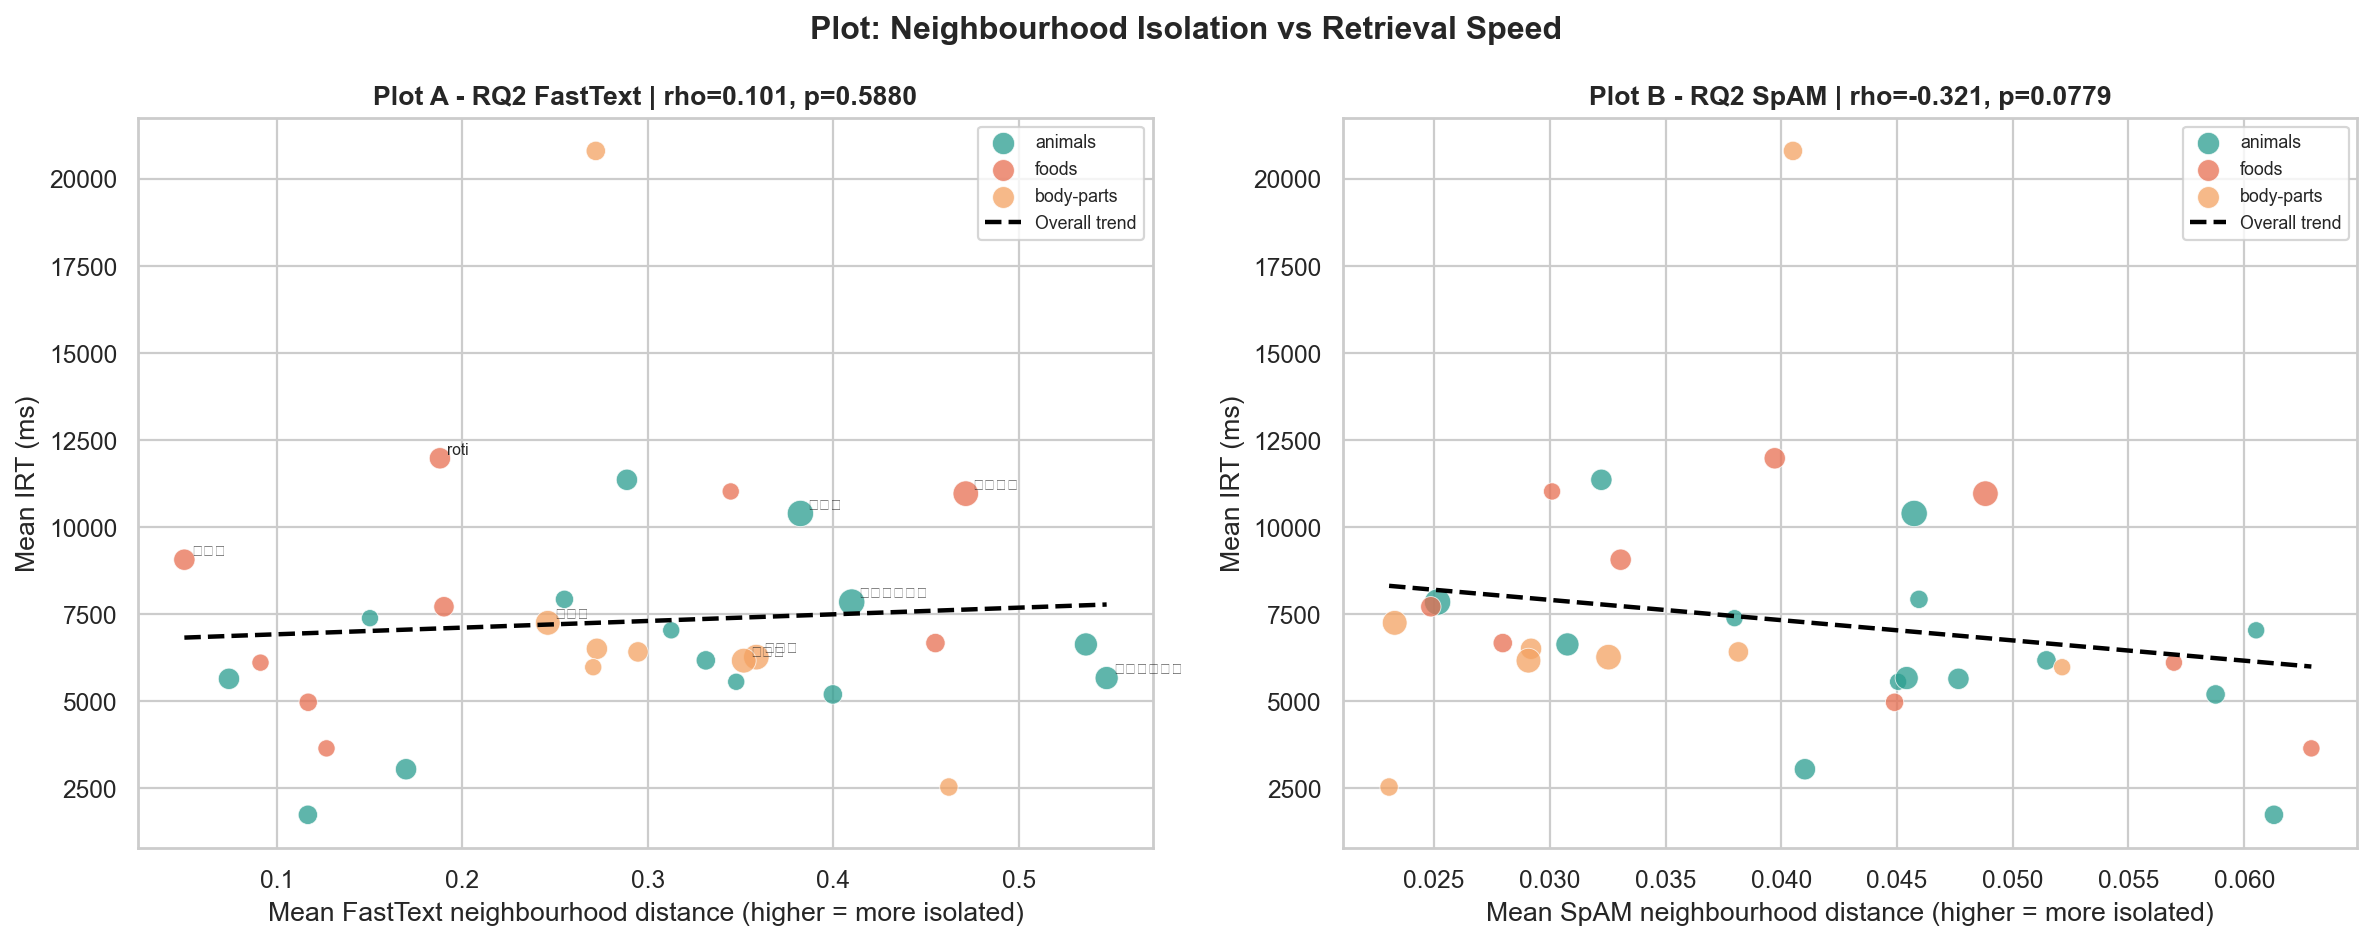
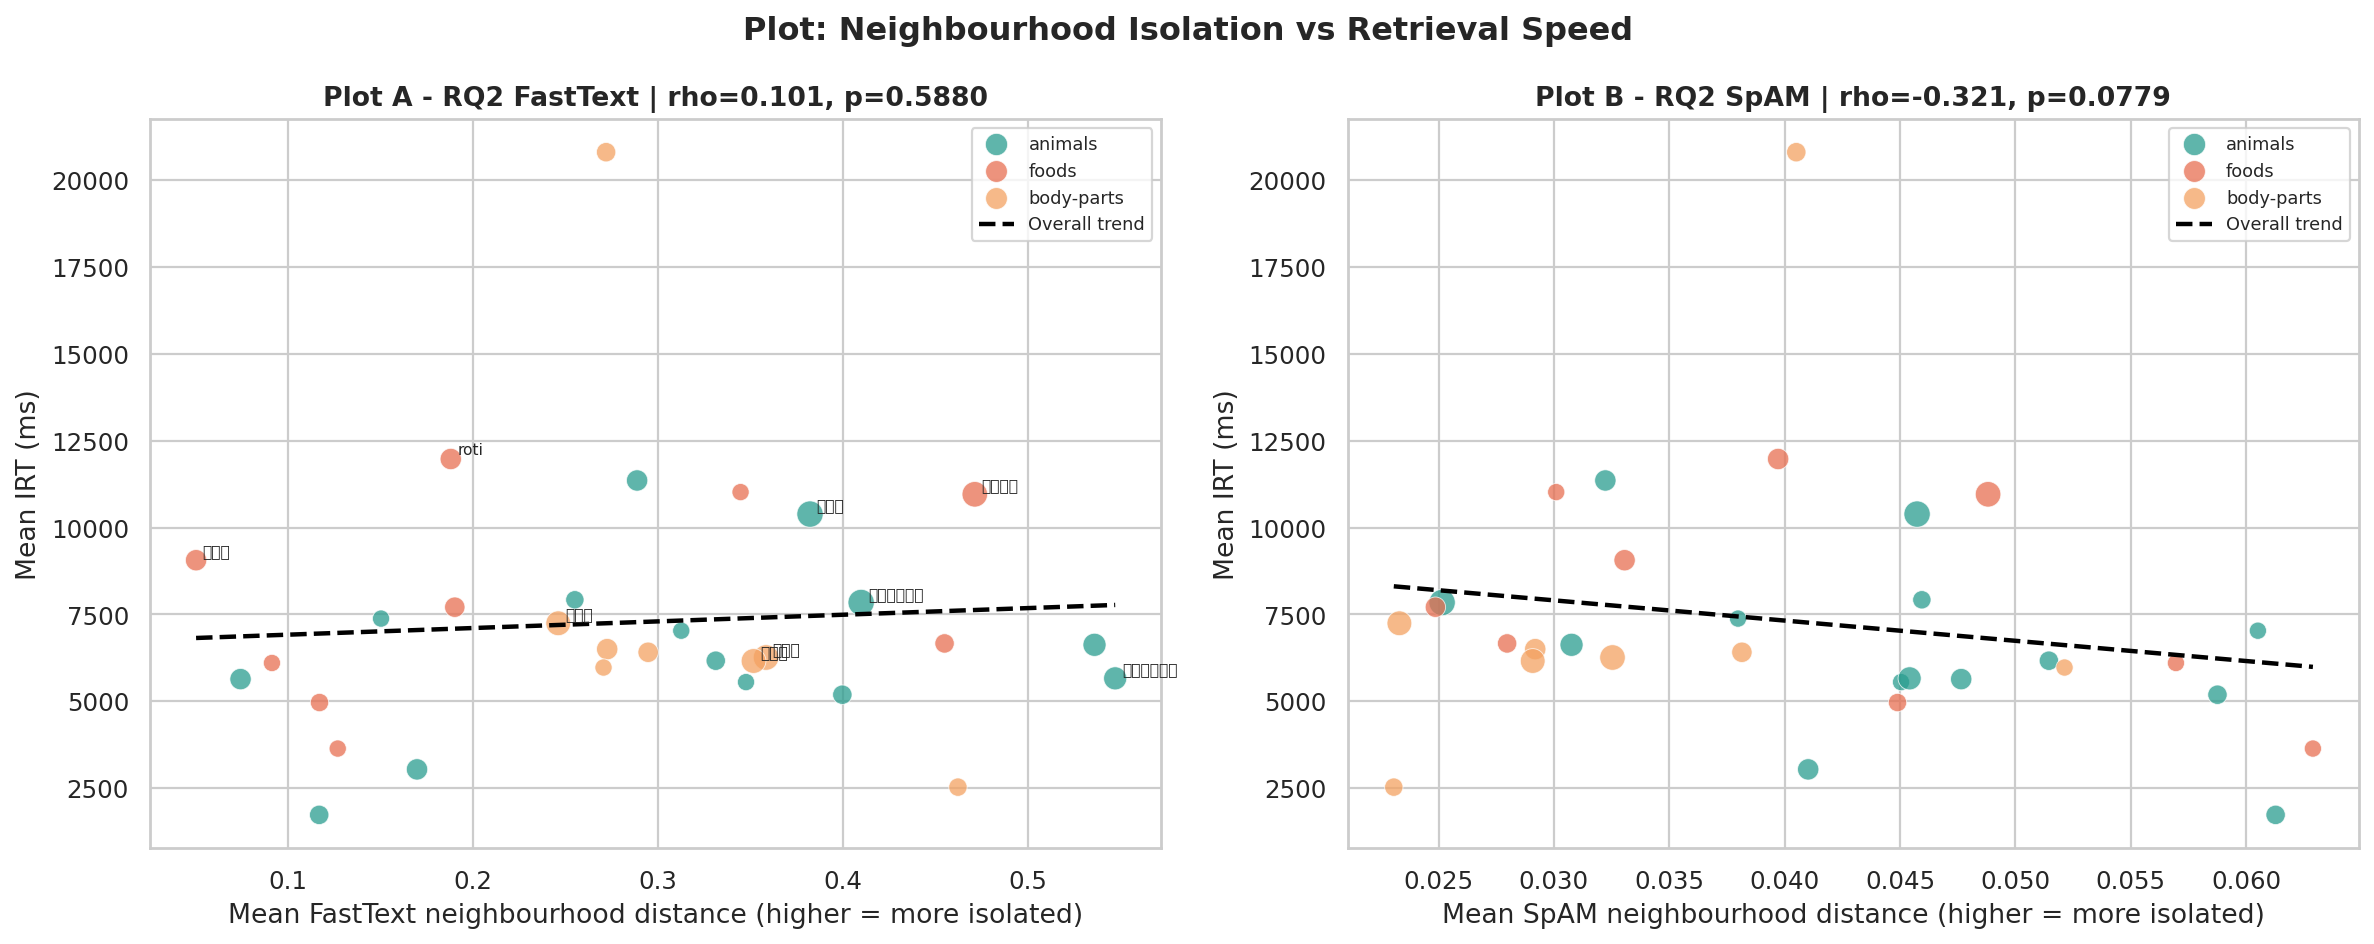
images adjusted and readme updated

diff --git a/CTRL+ALT+DLT.tex b/CTRL+ALT+DLT.tex
@@ -12,7 +12,7 @@
 \linespread{1.0}
 \setlength{\parindent}{0pt}
 \setlength{\parskip}{0.6em}
-\graphicspath{{images/}{images/img/}}
+\graphicspath{{images/}{images/}}
 
 \title{\textbf{Hindi Verbal Fluency: VFT and SpAM Analysis of Mental Lexicon Structure}}\author{Akshat Kotadia (2025201005) \and Om Mehra (2025201008) \and Ankit Chavda (2025201045)}
 \date{Report-2}

diff --git a/README.md b/README.md
@@ -5,11 +5,8 @@ This repository contains the full project material for the Hindi fluency study. 
 ## Main files
 
 - `Hindi_fluency_final.ipynb`: the executed notebook with the full analysis
-- `Report_Final.tex`: the IEEE-style report draft
-- `BRSM-Syllabus.md`: course summary used to shape the report structure
 - `merged_vft_spam_responses_enriched.csv`: processed dataset used by the notebook
 - `responses.json`: raw response log
-- `images/img/`: generated figures used in the report
 
 ## What the notebook does
 
@@ -26,7 +23,6 @@ This repository contains the full project material for the Hindi fluency study. 
 
 - Python 3.10 or newer
 - `pip`
-- MiKTeX or TeX Live if you want to compile the LaTeX report
 
 ### Create and activate the virtual environment
 
@@ -43,21 +39,4 @@ pip install -r requirements.txt
 
 ## Run the notebook
 
-Open `Hindi_fluency_final.ipynb` and run the cells from top to bottom. The notebook reads `merged_vft_spam_responses_enriched.csv` and regenerates the figures in `images/img/`.
-
-## Compile the report
-
-Run the LaTeX file twice so the references settle:
-
-```powershell
-pdflatex -interaction=nonstopmode -halt-on-error Report_Final.tex
-pdflatex -interaction=nonstopmode -halt-on-error Report_Final.tex
-```
-
-This creates `Report_Final.pdf`.
-
-## Notes
-
-- The report uses placeholder citations in `Report_Final.tex`. Replace them with the final bibliography when you are ready.
-- The notebook analysis is already executed, so the figures in `images/img/` can be reused directly.
-- If you add a poster later, the same figures and result summary can be reused in the report.
+Open `Hindi_fluency_final.ipynb` and run the cells from top to bottom. The notebook reads `merged_vft_spam_responses_enriched.csv` and regenerates the figures in `images/`.